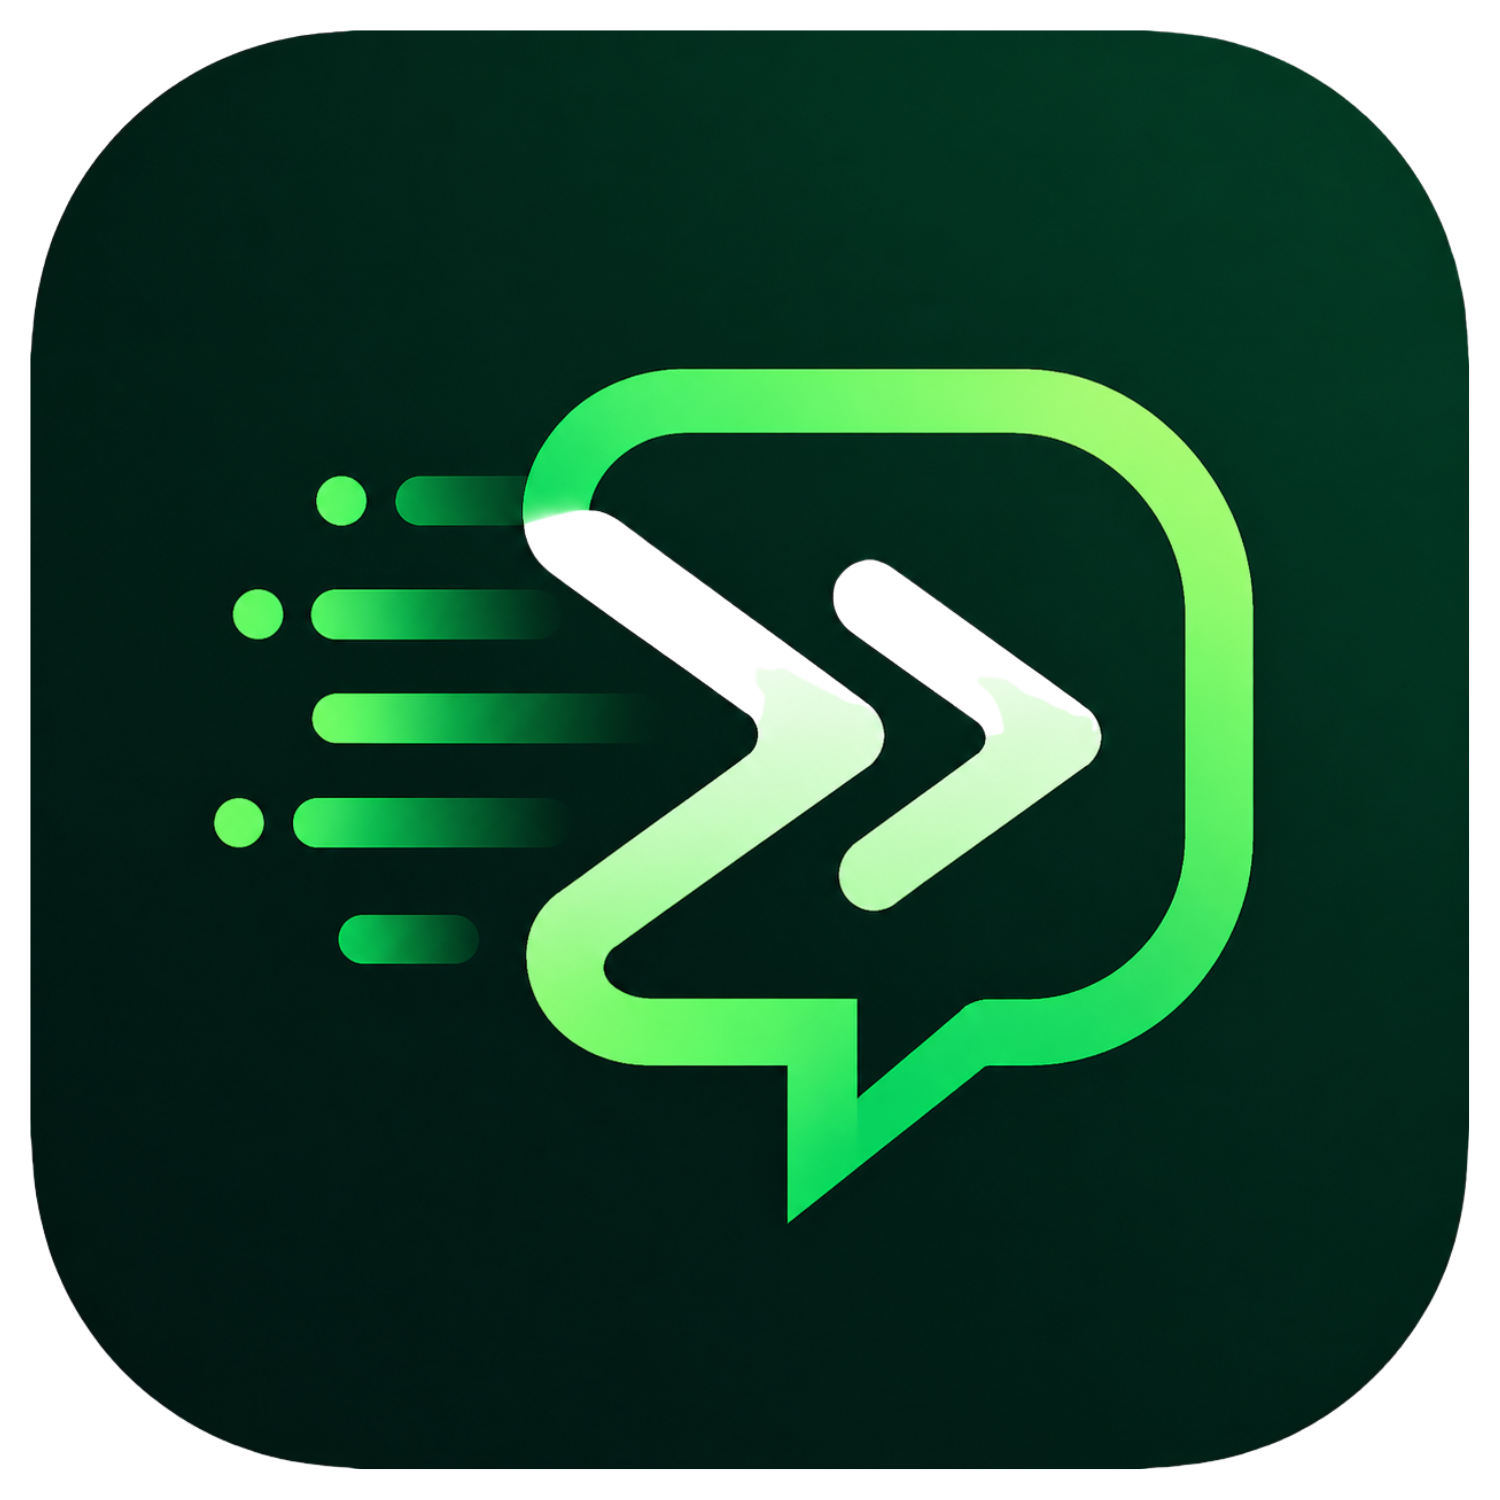
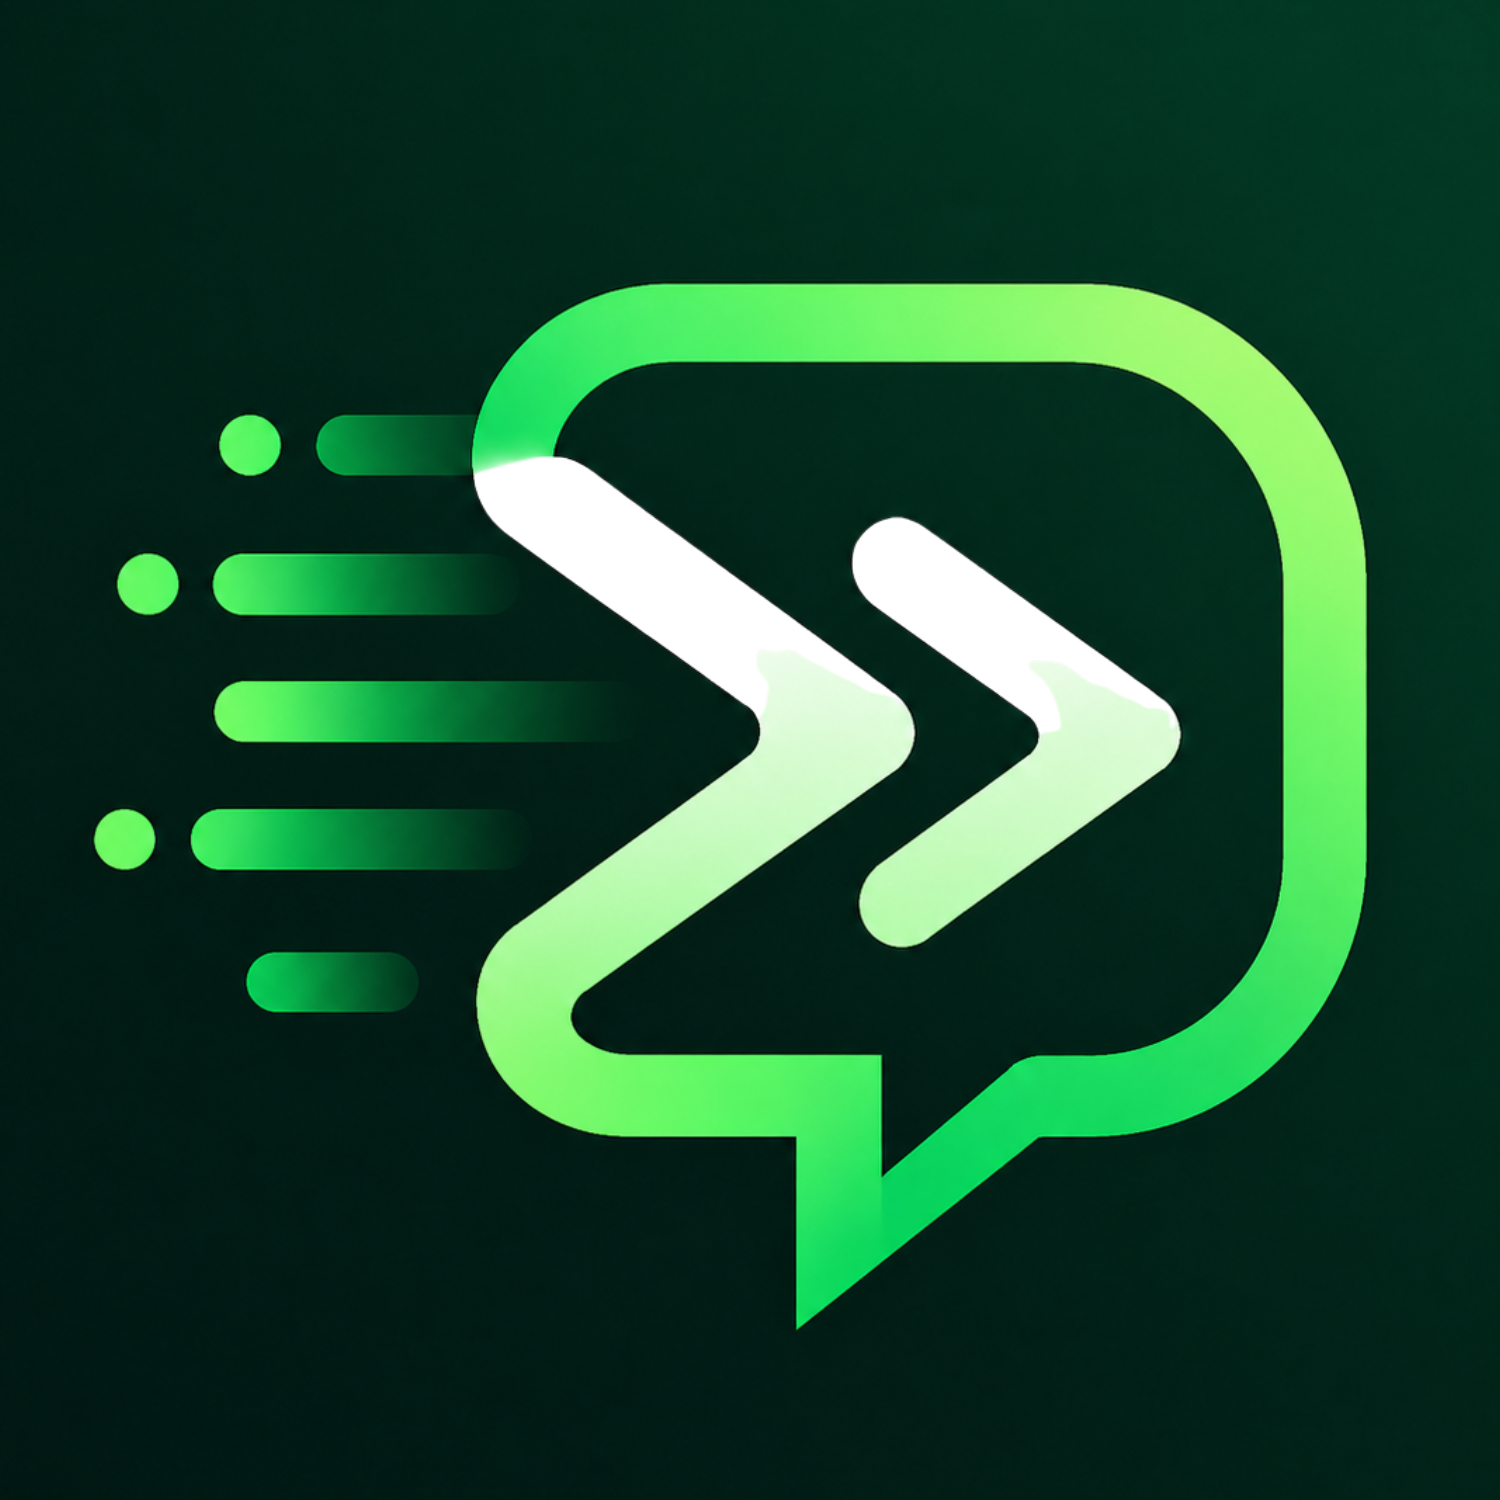
fix(frontend): evitar loop de loading ao sincronizar grupos em envios

diff --git a/frontend/src/view/Compose/index.tsx b/frontend/src/view/Compose/index.tsx
@@ -97,6 +97,7 @@ export function ComposeView() {
   const [status, setStatus] = useState('');
   const textareaRef = useRef<HTMLTextAreaElement | null>(null);
   const messageSelectionRef = useRef({ start: 0, end: 0 });
+  const hasSyncedGroupsOnOpenRef = useRef(false);
 
   useEffect(() => {
     if (!deviceId && devices.length > 0) {
@@ -105,6 +106,12 @@ export function ComposeView() {
   }, [deviceId, devices]);
 
   useEffect(() => {
+    if (hasSyncedGroupsOnOpenRef.current) {
+      return;
+    }
+
+    hasSyncedGroupsOnOpenRef.current = true;
+
     void refreshWhatsAppGroups().catch(() => {
       // Mantem a tela utilizavel mesmo se a sincronizacao falhar ao abrir.
     });